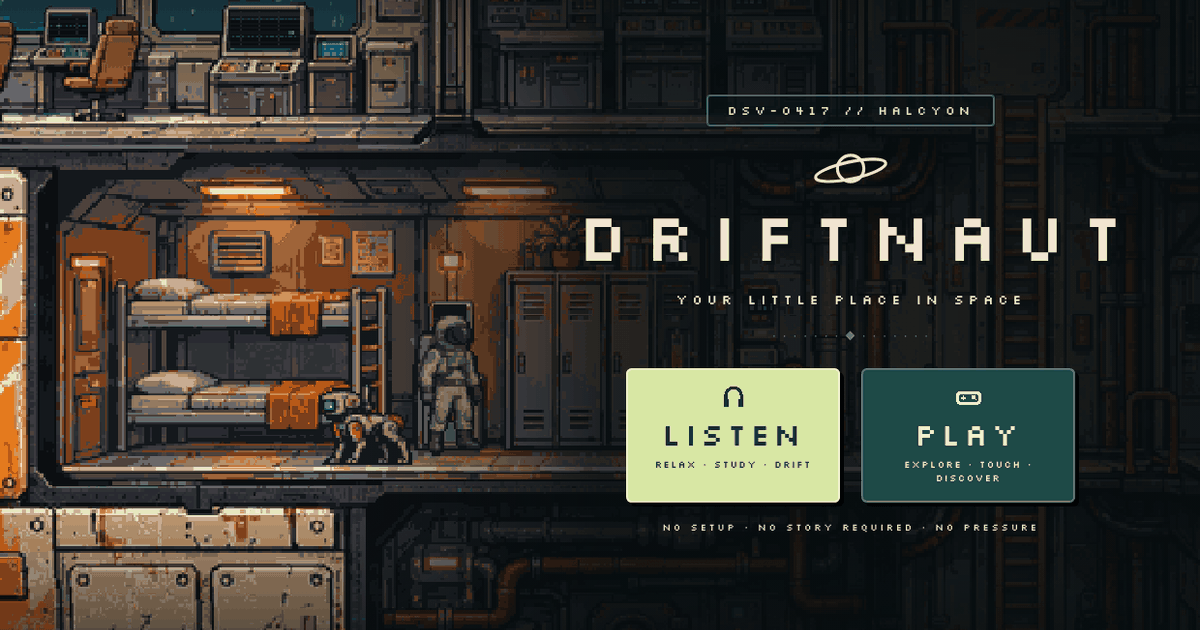
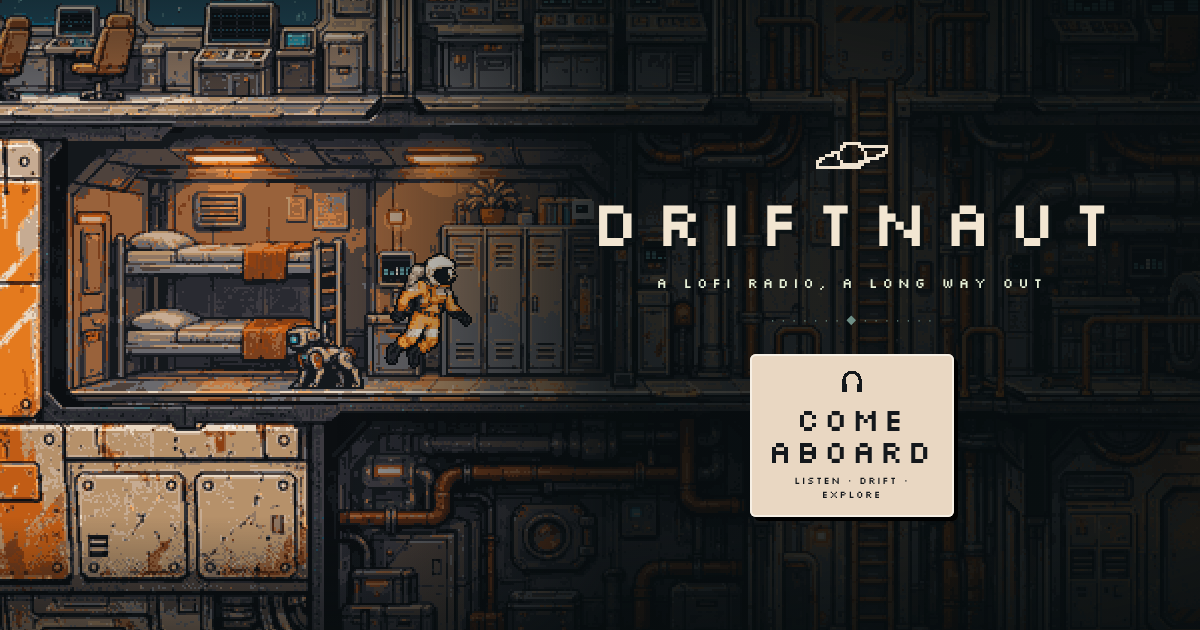
82 iphone

diff --git a/game.js b/game.js
@@ -91,6 +91,12 @@ const portrait=()=>!BC&&window.innerHeight>window.innerWidth*1.15;
 const isPhone=()=>!BC&&!!(window.matchMedia&&matchMedia('(pointer: coarse)').matches)&&Math.min(window.innerWidth,window.innerHeight)<=540; /* r55: a phone: touch, and a short side under ~540 px */
 function fit1(){const u=document.getElementById('unit');const cw0=stage.offsetWidth,ch0=stage.offsetHeight,cx=u.offsetWidth-cw0,cy=u.offsetHeight-ch0;
   const P_=portrait();document.body.classList.toggle('portrait',P_);const PH=isPhone();document.body.classList.toggle('phone',PH);
+  /* r82: UPRIGHT. Aboard on an upright phone or tablet the picture fills the whole screen: a tall slice of the ship, as tall as the hull,
+     that follows the astronaut. One picture pixel is two CSS pixels, the same chunk as the whole-ship view on a desktop */
+  const TALL=P_&&!BC&&document.body.classList.contains('watching')&&!document.body.classList.contains('studio')&&!recording;document.body.classList.toggle('tall',TALL);
+  if(TALL){const D=Math.max(1,Math.min(3,window.devicePixelRatio||1)),cw=window.innerWidth,chh=window.innerHeight,div=cw/2>470?3:2,iw=Math.round(cw/div),ih=Math.round(chh/div),m=Math.max(1,Math.round(div*D)),bw=iw*m,bh=ih*m;
+    if(bw!==stage.width||bh!==stage.height||CUT.pictureSize()[0]!==iw)LCV.setSize(bw,bh,iw,ih);stage.style.width=cw+'px';stage.style.height=chh+'px';stage.style.imageRendering='';document.body.classList.remove('lb-v','lb-h');return;}
+  if(CUT.pictureSize()[0]!==640){LCV.setSize(stage.width||1280,Math.round((stage.width||1280)*9/16));}
   const mg=BC||PH?0:P_?8:20;let k=Math.min((window.innerWidth-cx-mg)/640,(P_?window.innerHeight*.5:window.innerHeight-cy-mg)/360);k=Math.max(k,P_?.4:.6); /* an upright phone: as small as the width needs */
   /* r56: the canvas is drawn in device pixels, and each of the 640 x 360 picture pixels is a whole number of them when it can be */
   const D=BC?1:Math.max(1,Math.min(3,window.devicePixelRatio||1));let kd=k*D;const ki=Math.floor(kd+1e-6);if(ki>=1&&ki>=(BC?.97:.8)*kd)kd=ki;
@@ -424,7 +430,7 @@ function paintWatch(){/* full labels on a big screen; on a small one the words i
   {const sd=$('wSound');if(sd){const st=soundState();sd.innerHTML=st==='off'?'<s>SOUND<u> · </u></s>OFF':'<s>SOUND<u> · </u></s>'+(st==='ship'?'SHIP ONLY':'MUSIC + SHIP');sd.classList.toggle('off',st==='off');sd.setAttribute('aria-label','Sound: '+(st==='off'?'off':st==='ship'?'ship sounds only':'music and ship')+' (tap to change)');const nx=$('wNext');if(nx){nx.classList.toggle('off',st!=='all');nx.disabled=st!=='all';}}const fd=$('wFade');if(fd){fd.innerHTML='FADE OUT<em> · '+(SLP?SLP.min+' MIN':'OFF')+'</em>';fd.classList.toggle('on',!!SLP);}}{const t=$('wTape');if(t&&watch){const id=watch.tape||curTapeId();t.innerHTML='TAPE<em> · '+((NW.MUSIC[id]||{}).name||'')+'</em>';}const am=$('wAmb');if(am)am.innerHTML='AMBIENCE<em> · '+String(prefs.nw.ambience||'mid').toUpperCase()+'</em>';const wi=$('wInt');if(wi)wi.innerHTML='INTENSITY<em> · '+INTN[prefs.nw.intensity||'focus']+'</em>';for(const k of ['brown','pink']){const b=$('w'+k);if(b)b.innerHTML=k.toUpperCase()+' NOISE<em> · '+String(prefs.nw[k]||'low').toUpperCase()+'</em>';}}{const r=$('wRec');if(r){r.innerHTML=recording?'● REC<em> · STOP</em>':'REC<em> · LONG TAKE</em>';r.classList.toggle('on',!!recording);}}$('wFloat').innerHTML=document.pictureInPictureElement?'FLOAT<em> · ON</em>':'FLOAT';$('wFloat').classList.toggle('on',!!document.pictureInPictureElement);$('wFloat').hidden=!document.pictureInPictureEnabled;{const f=document.querySelector('[data-w=full]');if(f)f.hidden=!document.fullscreenEnabled;}} /* only what this browser can do */ /* r27: the seven per-sound sliders are gone; MUSIC on the quick bar turns the music off */
 function wake(keep){if(BC)return;/* the mouse moved: show the few controls, then hide them again */
   if(!watch)return;$('wui').hidden=false;$('wui').classList.add('on');document.body.classList.add('ui');clearTimeout(uiT);if(!keep&&!uiKeep)uiT=setTimeout(()=>{if(document.activeElement===$('wObj')){wake();return;}$('wui').classList.remove('on');document.body.classList.remove('ui');},4000);}
-document.addEventListener('pointermove',()=>{if(watch&&(state==='watch'||state==='play'))wake();});
+document.addEventListener('pointermove',()=>{if(watch&&(state==='watch'||state==='play'))wake();});document.addEventListener('pointerdown',()=>{if(watch&&state==='watch')wake();}); /* r82: a tap brings the bar back (a finger makes no pointermove) */
 $('wui').addEventListener('click',e=>{const b=e.target.closest('[data-w]');if(!b)return;const w=b.dataset.w;
   if(w==='next'){if(soundState()==='all')stationNext(3);wake();return;} /* r52 ⏭ */
   if(w==='focus25'){focusToggle();wake();return;}if(w==='float2'){floatWindow();wake();return;}if(w==='full'){fullToggle();wake();return;}if(w==='about'){aboutOpen(true);return;}
@@ -647,9 +653,12 @@ let DRV=0,drvT=0;function driftTick(){const pn=performance.now(),dt=Math.min(1,(
    LISTEN on an upright phone pans slowly along the whole ship, bow to stern and back, about two minutes a pass */
 let CAMV=null,camT=0;const CAM={wide:false,tip:false};window.__cam=CAM;
 const vw=t=>CAMV||CUT.view(P,TIMES,t);
-function camTarget(t){if(!document.body.classList.contains('phone')||!watch||BC||recording)return null;const W=CUT.W,H=CUT.H,por=document.body.classList.contains('portrait'),asp=stage.height/stage.width||9/16;
+function camTarget(t){if(!(document.body.classList.contains('phone')||document.body.classList.contains('tall'))||!watch||BC||recording)return null;const W=CUT.W,H=CUT.H,por=document.body.classList.contains('portrait'),asp=stage.height/stage.width||9/16;
   if(state==='play'&&!CAM.wide){let s=null;try{s=window.__eva||CUT.actorAt(P,TIMES,t,me);}catch(e){}if(!s)return null;const w=W/(por?2.3:1.8),h=w*asp;
     return [Math.max(0,Math.min(W-w,s.x-w/2)),Math.max(0,Math.min(H-h,s.y-40-h/2)),w,h];}
+  if(state==='watch'&&document.body.classList.contains('tall')){const gh=window.__ghost,a=stage.height/stage.width||16/9;
+    if(CAM.wide){const w=W,h=w*a;return [0,H/2-h/2,w,h];} /* pinched out: the whole ship, with sky above and below */
+    const h=Math.min(H,1230),w=h/a,gx=gh&&gh.on?gh.x:820,gy=gh&&gh.on?gh.y:700;return [Math.max(0,Math.min(W-w,gx-w/2)),Math.max(0,Math.min(H-h,gy-40-h/2)),w,h];}
   if(state==='watch'&&por){const w=W/1.7,h=w*asp,gh=window.__ghost; /* r63: an upright phone follows the ghost (she wanders by herself, so the camera does too) */
     if(gh&&gh.on)return [Math.max(0,Math.min(W-w,gh.x-w/2)),Math.max(0,Math.min(H-h,gh.y-40-h/2)),w,h];const u=.5-.5*Math.cos(performance.now()/1000*2*Math.PI/240);return [(W-w)*u,Math.max(0,Math.min(H-h,H*.5-h/2)),w,h];}
   return null;}
@@ -671,7 +680,7 @@ let hidT=0;document.addEventListener('visibilitychange',()=>{clearInterval(hidT)
 function frame(viaTimer){if(viaTimer!==true)requestAnimationFrame(frame);if(document.hidden&&!(viaTimer===true&&inPip()))return; /* r61 */
   driftTick();if(DT&&state!=='play'&&state!=='opening'&&state!=='route'&&state!=='deck')driftTone(0,0);pollPad();tickExterior();if(state==='opening')openingTick(now());const t=state==='title'||state==='registry'||(state==='controls'||state==='options')&&menuFrom==='title'||state==='setup'?(TIMES[1]?TIMES[1].start:0)+5+((performance.now()/1000-idle0)%24):now();
   if(state==='title'||state==='registry'||state==='setup'||(state==='controls'||state==='options')&&menuFrom==='title'){CUT.force('drift');LCV.render(t,{});CUT.force(null);if(DEV&&showMap)drawMap(t);return;}
-  camTick(t);if(CAMV)CUT.force(CAMV);LCV.render(t,{});if(CAMV)CUT.force(null);if(DEV&&showMap)drawMap(t);
+  camTick(t);if(CAMV)CUT.force(CAMV);LCV.render(t,document.body.classList.contains('tall')&&CAMV?{view:CAMV}:{});if(CAMV)CUT.force(null);if(DEV&&showMap)drawMap(t);
   if(story&&!watch&&(state==='play'||state==='opening'||state==='route'||state==='deck')){sfxTick(t);story.update();if(k9&&state==='play'){k9.update(t);if(events&&!resting)events.update(t);idleGlance(t);const r=CUT.roomAt(P,TIMES,t,me);if(r!==lastRoom){lastRoom=r;lastProgress=t;}}if(!(hudN%6))paintNotes();if(SCAN.found&&state==='play'){const p=CUT.actorAt(P,TIMES,t,me),k=Math.max(2,Math.round(stage.width/384)),R=SCAN.read(p.x,p.y);if(SCAN.tick(t,R)==='lock'){tuneReq=true;ping();}scanSound(R);if(scanVisible(t,R)){const c2=stage.getContext('2d');c2.save();c2.globalAlpha=scanA;SCAN.draw(c2,t,R,k,1);c2.restore();}}else scanSound(null);}else{tuneReq=false;scanSound(null);}
   if(recording&&(state==='play'||state==='watch')){layersOnto();recording.frame(Math.max(0,t-recording.t0));}
   else if(document.pictureInPictureElement&&watch)layersOnto();

diff --git a/index.html b/index.html
@@ -8,7 +8,7 @@
 <meta name="theme-color" content="#06060a">
 <meta property="og:title" content="Driftnaut">
 <meta property="og:description" content="A drifting research vessel, an astronaut and a robodog called Scout. Endless chillhop. DSV HALCYON · 0417 · Drift through space. Tune out the world.">
-<meta property="og:image" content="og.png">
+<meta property="og:image" content="og.png?v=2">
 <meta property="og:image:width" content="1200"><meta property="og:image:height" content="630"><meta name="twitter:card" content="summary_large_image">
 <link rel="icon" href="favicon.png" type="image/png">
 <link rel="apple-touch-icon" href="apple-touch-icon.png">
@@ -16,7 +16,7 @@
 <meta name="mobile-web-app-capable" content="yes"><meta name="apple-mobile-web-app-capable" content="yes">
 <link rel="preload" href="fonts/silkscreen-400.woff2" as="font" type="font/woff2" crossorigin>
 <link rel="preload" href="fonts/plexmono-400.woff2" as="font" type="font/woff2" crossorigin>
-<link rel="stylesheet" href="game.css?v=55">
+<link rel="stylesheet" href="game.css?v=57">
 </head>
 <body>
 <div class="boot" id="boot" role="status" aria-live="polite"><div class="bt-box"><canvas class="bt-sky" id="bootSky" width="320" height="200" aria-hidden="true"></canvas><p class="bt-top"><span>DSV-0417</span><span>HOS 4.1</span></p><div class="bt-art"><img id="bootArt" src="boot-helmet.png?v=2" alt="" width="64" height="64"><p class="bt-kick">DSV-0417 // HALCYON</p><svg class="bt-orb" viewBox="0 0 26 13" aria-hidden="true" shape-rendering="crispEdges" fill="currentColor"><rect x="10" y="2" width="1" height="1"/><rect x="11" y="2" width="1" height="1"/><rect x="12" y="2" width="1" height="1"/><rect x="13" y="2" width="1" height="1"/><rect x="14" y="2" width="1" height="1"/><rect x="15" y="2" width="1" height="1"/><rect x="9" y="3" width="1" height="1"/><rect x="10" y="3" width="1" height="1"/><rect x="15" y="3" width="1" height="1"/><rect x="16" y="3" width="1" height="1"/><rect x="17" y="3" width="1" height="1"/><rect x="18" y="3" width="1" height="1"/><rect x="19" y="3" width="1" height="1"/><rect x="20" y="3" width="1" height="1"/><rect x="21" y="3" width="1" height="1"/><rect x="22" y="3" width="1" height="1"/><rect x="23" y="3" width="1" height="1"/><rect x="24" y="3" width="1" height="1"/><rect x="9" y="4" width="1" height="1"/><rect x="16" y="4" width="1" height="1"/><rect x="24" y="4" width="1" height="1"/><rect x="6" y="5" width="1" height="1"/><rect x="7" y="5" width="1" height="1"/><rect x="8" y="5" width="1" height="1"/><rect x="17" y="5" width="1" height="1"/><rect x="23" y="5" width="1" height="1"/><rect x="24" y="5" width="1" height="1"/><rect x="4" y="6" width="1" height="1"/><rect x="5" y="6" width="1" height="1"/><rect x="6" y="6" width="1" height="1"/><rect x="8" y="6" width="1" height="1"/><rect x="17" y="6" width="1" height="1"/><rect x="21" y="6" width="1" height="1"/><rect x="22" y="6" width="1" height="1"/><rect x="23" y="6" width="1" height="1"/><rect x="2" y="7" width="1" height="1"/><rect x="3" y="7" width="1" height="1"/><rect x="8" y="7" width="1" height="1"/><rect x="17" y="7" width="1" height="1"/><rect x="18" y="7" width="1" height="1"/><rect x="19" y="7" width="1" height="1"/><rect x="20" y="7" width="1" height="1"/><rect x="21" y="7" width="1" height="1"/><rect x="1" y="8" width="1" height="1"/><rect x="2" y="8" width="1" height="1"/><rect x="9" y="8" width="1" height="1"/><rect x="15" y="8" width="1" height="1"/><rect x="16" y="8" width="1" height="1"/><rect x="17" y="8" width="1" height="1"/><rect x="18" y="8" width="1" height="1"/><rect x="1" y="9" width="1" height="1"/><rect x="9" y="9" width="1" height="1"/><rect x="10" y="9" width="1" height="1"/><rect x="11" y="9" width="1" height="1"/><rect x="12" y="9" width="1" height="1"/><rect x="13" y="9" width="1" height="1"/><rect x="14" y="9" width="1" height="1"/><rect x="15" y="9" width="1" height="1"/><rect x="16" y="9" width="1" height="1"/><rect x="1" y="10" width="1" height="1"/><rect x="2" y="10" width="1" height="1"/><rect x="3" y="10" width="1" height="1"/><rect x="4" y="10" width="1" height="1"/><rect x="5" y="10" width="1" height="1"/><rect x="6" y="10" width="1" height="1"/><rect x="7" y="10" width="1" height="1"/><rect x="8" y="10" width="1" height="1"/><rect x="9" y="10" width="1" height="1"/><rect x="10" y="10" width="1" height="1"/><rect x="11" y="10" width="1" height="1"/><rect x="12" y="10" width="1" height="1"/><rect x="13" y="10" width="1" height="1"/><rect x="14" y="10" width="1" height="1"/><rect x="15" y="10" width="1" height="1"/></svg><p class="bt-name">DRIFTNAUT</p><p class="bt-tag">A LOFI RADIO, A LONG WAY OUT</p><p class="bt-rule" aria-hidden="true">· · · · · · · ◆ · · · · · · ·</p><div class="bt-ship" role="img" aria-label="The survey vessel HALCYON, DSV-0417"></div></div><canvas class="bt-live" id="bootLive" aria-hidden="true"></canvas><div class="bt-mid"><p class="bt-load" id="bootLoad" hidden>LOADING<span class="bt-dots"></span></p><div class="bt-bar" id="bootFill" hidden><b></b><b></b><b></b><b></b><b></b><b></b><b></b><b></b><b></b><b></b><b></b><b></b><b></b><b></b><b></b><b></b></div><p class="bt-sub" id="bootSub" hidden>RECOVERING FEED</p><div class="bt-pick" id="bootStart"><button type="button" class="bt-card listen" data-b="listen"><svg viewBox="0 0 16 16" aria-hidden="true"><path d="M3 9V7a5 5 0 0 1 10 0v2" fill="none" stroke="currentColor" stroke-width="2"/><rect x="2" y="9" width="3" height="5" fill="currentColor"/><rect x="11" y="9" width="3" height="5" fill="currentColor"/></svg><b>COME ABOARD</b><span>LISTEN · DRIFT · EXPLORE</span></button></div></div><p class="bt-foot" id="bootFoot"><span>NO GOALS · NO SCORES · NOTHING YOU HAVE TO DO</span></p></div></div>
@@ -190,13 +190,13 @@
 <script src="deep.js?v=16"></script>
 <script src="assets-core.js?v=27"></script>
 <script src="pix.js?v=11"></script>
-<script src="cut.js?v=66"></script>
+<script src="cut.js?v=67"></script>
 <script src="episode.js?v=3"></script>
 <script src="story/halcyon.js?v=13"></script>
 <script src="watch.js?v=20"></script>
 <script src="amb.js?v=6"></script>
 <script src="audio/sfx.js?v=6"></script>
-<script src="lc.js?v=14"></script>
+<script src="lc.js?v=15"></script>
 <script src="rec.js?v=9"></script>
 <script src="game/scanner.js?v=5"></script>
 <script src="game/power.js?v=4"></script>
@@ -205,16 +205,16 @@
 <script src="game/events.js?v=3"></script>
 <script src="game/story.js?v=17"></script>
 <script src="game/console.js?v=2"></script>
-<script src="game.js?v=77"></script>
+<script src="game.js?v=78"></script>
 <script src="game/pad.js?v=14"></script>
 <script src="game/toys.js?v=23"></script>
 <script src="game/clock.js?v=8"></script>
 <script src="game/k9nav.js?v=1"></script>
 <script src="game/joy.js?v=7"></script>
 <script src="game/town.js?v=9"></script>
-<script src="game/naut.js?v=12"></script>
-<script src="game/life.js?v=2"></script>
-<script src="game/feel.js?v=1"></script>
+<script src="game/naut.js?v=13"></script>
+<script src="game/life.js?v=3"></script>
+<script src="game/feel.js?v=2"></script>
 <script>if(/[?&]studio\b/.test(location.search))document.body.classList.add('studio');</script>
 <script>/* the boot screen (r27): the rest of the ship (the cutaway master and its overlays, then the crew) is fetched with its
    progress shown as an arcade loading bar, sixteen blocks, then the title. Falls back to plain script tags if fetch fails. */

diff --git a/cut.js b/cut.js
@@ -631,7 +631,7 @@ function render(c,P,times,t,box,scale){layers();const C=compile(P,times);if(!rea
   const V=FORCE==='drift'?extRect(performance.now()/1000):FORCE||(PLAY.on||C.cams.length>1?view(P,times,t):[0,0,W,H]);
   c.save();c.setTransform(1,0,0,1,0,0);c.imageSmoothingEnabled=false;
   if(LOWRES){let [sx,sy,sw,sh]=V;if(Math.abs(sw-IR.w*2)<1){sx=Math.round(sx/2)*2;sy=Math.round(sy/2)*2;} /* snapped: no pixel crawl while she walks */
-    ix.imageSmoothingEnabled=false;if(TIGHT){ix.fillStyle='#0b0e11';ix.fillRect(0,0,IR.w,IR.h);}ix.drawImage(cv,sx,sy,sw,sh,0,0,IR.w,IR.h);if(PALON){const id=ix.getImageData(0,0,IR.w,IR.h);quantize(id.data);ix.putImageData(id,0,0);}
+    ix.imageSmoothingEnabled=false;if(TIGHT||sx<0||sy<0||sx+sw>W+.5||sy+sh>H+.5){ix.fillStyle='#161719';ix.fillRect(0,0,IR.w,IR.h);} /* r82: a view that runs past the art (the whole ship on a tall screen) has plain sky around it */ix.drawImage(cv,sx,sy,sw,sh,0,0,IR.w,IR.h);if(PALON){const id=ix.getImageData(0,0,IR.w,IR.h);quantize(id.data);ix.putImageData(id,0,0);}
     c.drawImage(ic,0,0,IR.w,IR.h,Math.round(box.x*scale),Math.round(box.y*scale),Math.round(box.w*scale),Math.round(box.h*scale));}
   else c.drawImage(cv,V[0],V[1],V[2],V[3],Math.round(box.x*scale),Math.round(box.y*scale),Math.round(box.w*scale),Math.round(box.h*scale));c.restore();
   return {x:box.x,y:box.y,w:box.w,h:box.h};}
@@ -639,7 +639,7 @@ function report(P,times,t){const C=compile(P,times),o={};for(const a of ACTORS){
 let DRIFTV=0;
 let LASTEXT=0,SOLID=false;
 window.CUT={solid:v=>{SOLID=!!v;},extAt:()=>LASTEXT, /* r41: how much of the last frame drawn was the outside of the hull (the opening's x-ray, the viewport look); the overlay layers fade with it */ /* r41: how much of the picture is the outside of the hull (the overlay layers fade with it) */
-  float:v=>{DRIFTV=Math.max(0,Math.min(1,+v||0));},toy:o=>{o=Object.assign({},o||{});if(o.room){for(const [r,v] of Object.entries(o.room)){if((TOY.room[r]==null?1:TOY.room[r])!==v)RLT[r]=performance.now();TOY.room[r]=v;}delete o.room;}if(o.door){Object.assign(TOY.door,o.door);delete o.door;}Object.assign(TOY,o);return TOY;},_sky:()=>skyMask(),_hash:(a,b)=>hash(a,b),tight:v=>{TIGHT=!!v;},focus:f=>{FOCUS=f||null;},frame:()=>LOWRES&&ic?ic:null,_loc:{mkRun,evalRun,xyOf:p=>xyOf(p)},setTape:n=>{TAPE=n;},drift:v=>{DRIFTL=v;},roomOf,gait:(P,times,t,a)=>{const C=compile(P,times),st=actorAt(C,a||'deadscout',t);if(!st.walk||st.dist==null)return null;const S=A.sheets[SHEET[a]||a];if(!S||!S.animations.walk)return null;const an=S.animations.walk,tot=an.reduce((p,f)=>p+f[1],0),stride=Math.max(1,vWalk(a,st.sneak,false)*tot);let u=((st.dist/stride)%1+1)%1*tot,i=0;for(const [f,d] of an){if(u<d)break;u-=d;i++;}return {i:Math.min(i,an.length-1),n:an.length,fast:st.fast,v:st.v};},render,compile,parse,format,formatBeat,eventAt,report,view,pick,neighbor,wakeAt,hereRef,farTarget,roomAt,nearby,snapshot,travelTime,MAP:SC,SS,uses:(P,times)=>compile(P,times).uses,doorStates:(P,times,t)=>{const C=compile(P,times),o={};for(const d of DOORS)o[d]=lastOf(C.doors[d],t).state;return o;},roomStates:(P,times,t)=>{const C=compile(P,times),o={};for(const r of Object.keys(SC.rooms))o[r]=roomState(C,r,t);return o;},screenModeAt:(P,times,t,id)=>screenAt(compile(P,times),id,t).m,objCount:(P,times,id)=>compile(P,times).obj[id]||0,force:v=>{FORCE=v;},overlay:f=>{OVERLAY=f;},behind:f=>{BEHIND=f;},hideHer:v=>{HIDEHER=!!v;},/* r79: a piece of the foreground art (railings, door frames) or of the outside hull, redrawn by a caller over something it drew on top (world units) */layer:(which,ctx,sx,sy,sw,sh,alpha)=>{const im=which==='front'?L2:which==='exterior'?LX:null;if(!im||!ready(im))return false;const kx=im.naturalWidth/W,ky=im.naturalHeight/H;ctx.save();ctx.globalAlpha=alpha==null?1:alpha;ctx.drawImage(im,sx*kx,sy*ky,sw*kx,sh*ky,sx,sy,sw,sh);ctx.restore();return true;},sprite:(id,anim,X,Y,flip,t,ctx,alpha,an0)=>{HERSELF=true;try{return drawSprite(id,anim,X,Y,flip,t,0,alpha==null?1:alpha,an0||null,ctx);}finally{HERSELF=false;}},exterior:v=>{EXTF=v;},light:v=>{LIT=!!v;},lowres:v=>{LOWRES=!!v;},palette:v=>{PALON=!!v;},PALETTE,IR,hasExterior:()=>!!LX,actorAt:(P,times,t,a)=>actorAt(compile(P,times),a||'deadscout',t),command,play:PLAY,mmss,secs,
+  float:v=>{DRIFTV=Math.max(0,Math.min(1,+v||0));},toy:o=>{o=Object.assign({},o||{});if(o.room){for(const [r,v] of Object.entries(o.room)){if((TOY.room[r]==null?1:TOY.room[r])!==v)RLT[r]=performance.now();TOY.room[r]=v;}delete o.room;}if(o.door){Object.assign(TOY.door,o.door);delete o.door;}Object.assign(TOY,o);return TOY;},_sky:()=>skyMask(),_hash:(a,b)=>hash(a,b),tight:v=>{TIGHT=!!v;},focus:f=>{FOCUS=f||null;},frame:()=>LOWRES&&ic?ic:null,_loc:{mkRun,evalRun,xyOf:p=>xyOf(p)},setTape:n=>{TAPE=n;},drift:v=>{DRIFTL=v;},roomOf,gait:(P,times,t,a)=>{const C=compile(P,times),st=actorAt(C,a||'deadscout',t);if(!st.walk||st.dist==null)return null;const S=A.sheets[SHEET[a]||a];if(!S||!S.animations.walk)return null;const an=S.animations.walk,tot=an.reduce((p,f)=>p+f[1],0),stride=Math.max(1,vWalk(a,st.sneak,false)*tot);let u=((st.dist/stride)%1+1)%1*tot,i=0;for(const [f,d] of an){if(u<d)break;u-=d;i++;}return {i:Math.min(i,an.length-1),n:an.length,fast:st.fast,v:st.v};},render,compile,parse,format,formatBeat,eventAt,report,view,pick,neighbor,wakeAt,hereRef,farTarget,roomAt,nearby,snapshot,travelTime,MAP:SC,SS,uses:(P,times)=>compile(P,times).uses,doorStates:(P,times,t)=>{const C=compile(P,times),o={};for(const d of DOORS)o[d]=lastOf(C.doors[d],t).state;return o;},roomStates:(P,times,t)=>{const C=compile(P,times),o={};for(const r of Object.keys(SC.rooms))o[r]=roomState(C,r,t);return o;},screenModeAt:(P,times,t,id)=>screenAt(compile(P,times),id,t).m,objCount:(P,times,id)=>compile(P,times).obj[id]||0,force:v=>{FORCE=v;},overlay:f=>{OVERLAY=f;},behind:f=>{BEHIND=f;},hideHer:v=>{HIDEHER=!!v;},/* r82: the logical picture can be another size and shape (an upright phone: tall) */picture:(w,h)=>{w=Math.max(64,Math.round(w));h=Math.max(64,Math.round(h));if(IR.w===w&&IR.h===h)return;IR.w=w;IR.h=h;ic.width=w;ic.height=h;},pictureSize:()=>[IR.w,IR.h],/* r79: a piece of the foreground art (railings, door frames) or of the outside hull, redrawn by a caller over something it drew on top (world units) */layer:(which,ctx,sx,sy,sw,sh,alpha)=>{const im=which==='front'?L2:which==='exterior'?LX:null;if(!im||!ready(im))return false;const kx=im.naturalWidth/W,ky=im.naturalHeight/H;ctx.save();ctx.globalAlpha=alpha==null?1:alpha;ctx.drawImage(im,sx*kx,sy*ky,sw*kx,sh*ky,sx,sy,sw,sh);ctx.restore();return true;},sprite:(id,anim,X,Y,flip,t,ctx,alpha,an0)=>{HERSELF=true;try{return drawSprite(id,anim,X,Y,flip,t,0,alpha==null?1:alpha,an0||null,ctx);}finally{HERSELF=false;}},exterior:v=>{EXTF=v;},light:v=>{LIT=!!v;},lowres:v=>{LOWRES=!!v;},palette:v=>{PALON=!!v;},PALETTE,IR,hasExterior:()=>!!LX,actorAt:(P,times,t,a)=>actorAt(compile(P,times),a||'deadscout',t),command,play:PLAY,mmss,secs,
   ROOMS:Object.fromEntries(Object.keys(SPOTS).map(r=>[r,{name:ROOM_NAMES[r]||r.toUpperCase(),spots:SPOTS[r]}])),ACTORS,NAMES,STORY_MODES,MODE_OF,STATES,WORLD,SCREEN_MODES,EVENTS,DOORS,ANOM,MYSTERIES:MYST,OBJECTS:OBJ,ECHO_PRESETS,ACTIONS,
   SCREENS:Object.keys(SC.screens),place,poses:AN,W,H};
 })();

diff --git a/lc.js b/lc.js
@@ -4,7 +4,7 @@
    are 1920x1080; the canvas can be any size. */
 (function(){
 "use strict";
-const DW=1920,DH=1080,INTRO=2.6,OUTRO=5,HAL=7,HAL_X=4.2; /* r26: the open ends on CURRENT STATUS · LOST *//* HAL: the HALCYON open, over the hull outside, with the music already running; then HAL_X seconds dissolving in */
+let DW=1920,DH=1080;const INTRO=2.6,OUTRO=5,HAL=7,HAL_X=4.2; /* r26: the open ends on CURRENT STATUS · LOST *//* HAL: the HALCYON open, over the hull outside, with the music already running; then HAL_X seconds dissolving in */
 const clamp=(v,a,b)=>Math.max(a,Math.min(b,v)),sm=x=>{x=clamp(x,0,1);return x*x*(3-2*x);};
 const hash=(a,b)=>{let h=Math.imul((a|0)^0x9e3779b9,0x85ebca6b)^Math.imul((b|0)+0x7f4a7c15|0,0xc2b2ae35);h^=h>>>15;h=Math.imul(h,0x2c1b3c6d);h^=h>>>12;return (h>>>0)/4294967296;};
 const vn=(x,s)=>{const i=Math.floor(x),f=x-i,u=f*f*(3-2*f);return hash(i,s)*(1-u)+hash(i+1,s)*u;};
@@ -16,7 +16,7 @@ const EVENTS={'signal-hit':'SIGNAL HIT','contact-pulse':'CONTACT PULSE','power-d
 function create(canvas){
   const ctx=canvas.getContext('2d');let P=null,times=[],scale=1;
   const tmp=document.createElement('canvas'),tx=tmp.getContext('2d'),tmp2=document.createElement('canvas'),tx2=tmp2.getContext('2d');
-  function setSize(w,h){canvas.width=w;canvas.height=h;scale=w/DW;}
+  function setSize(w,h,irw,irh){canvas.width=w;canvas.height=h;const tall=h>w*1.15; /* r82: an upright picture is laid out 1080 wide and as tall as it is */DW=tall?1080:1920;DH=tall?Math.round(1080*h/w):1080;scale=w/DW;try{if(irw&&irh)CUT.picture(irw,irh);else CUT.picture(640,360);}catch(e){}}
   function setProject(p,t){P=p;times=t||[];}
   const chapterAt=t=>{for(let k=times.length-1;k>=0;k--)if(t>=times[k].start)return k;return 0;};
   function cfgOf(ch,sd){const role=String(ch.role||ch.title||'').toUpperCase(),mk=ch.motion&&ch.motion!=='auto'?ch.motion:(ROLE_SET[role]||P.motion||'synthwave'),S=SETS[mk]||SETS.synthwave,e=FX_ENERGY[ch.fxEnergy||P.fxEnergy||'mid']||1;
@@ -24,8 +24,8 @@ function create(canvas){
   const HAL_BLOCKS=[['2291 // DSV HALCYON',0,2.4],['DRIFTING PEACEFULLY','150 AU FROM SOL',2.4,7]];
   function halcyonOpen(c,t){c.save();c.setTransform(scale,0,0,scale,0,0);c.fillStyle='rgba(2,3,8,.38)';c.fillRect(0,0,DW,DH);c.globalAlpha=sm(t/.8);
     for(const b of HAL_BLOCKS){const two=b.length===4,t0=b[two?2:1],t1=b[two?3:2];if(t<t0||t>=t1)continue;const u=t-t0,a=Math.min(sm(u/.45),1-sm((u-(t1-t0-.5))/.5));c.globalAlpha=sm(t/.8)*a;c.textAlign='left';
-      c.font='400 30px Silk,"LR Clean",monospace';try{c.letterSpacing='9px';}catch(e){}c.fillStyle='#8fd8c0';c.fillText(b[0],150,DH-250);
-      if(two){c.font='400 64px Silk,"LR Clean",monospace';try{c.letterSpacing='12px';}catch(e){}c.fillStyle=b[1]==='INTERNAL'||b[1]==='LOST'?'#e8a33a':'#e7dbc0';c.fillText(b[1],150,DH-160);}}
+      c.font='400 30px Silk,"LR Clean",monospace';try{c.letterSpacing='9px';}catch(e){}const TALL=DH>DW,X0=TALL?70:150,Y0=TALL?DH-470:DH-250,K=TALL?.8:1;if(TALL){const ga=c.globalAlpha;c.globalAlpha=ga*.72;c.fillStyle='#0b0e11';c.fillRect(0,Y0-70,DW,two?200:110);c.globalAlpha=ga;} /* upright: the words lie over the hull, so they get a dark band of their own */c.font='400 '+Math.round(30*K)+'px Silk,"LR Clean",monospace';c.fillStyle='#8fd8c0';c.fillText(b[0],X0,Y0);
+      if(two){c.font='400 64px Silk,"LR Clean",monospace';try{c.letterSpacing='12px';}catch(e){}c.font='400 '+Math.round(64*K)+'px Silk,"LR Clean",monospace';c.fillStyle=b[1]==='INTERNAL'||b[1]==='LOST'?'#e8a33a':'#e7dbc0';c.fillText(b[1],X0,Y0+90*K);}}
     try{c.letterSpacing='0px';}catch(e){}c.restore();}
   function card(c,line,alpha){c.save();c.setTransform(scale,0,0,scale,0,0);c.globalAlpha=alpha;c.fillStyle='#0c0a09';c.fillRect(0,0,DW,DH);c.fillStyle='#e7dbc0';c.textAlign='center';c.font='400 58px Silk,monospace';try{c.letterSpacing='8px';}catch(e){}c.fillText('DRIFTNAUT',DW/2+4,DH/2+8);
     c.font='400 20px Silk,monospace';try{c.letterSpacing='5px';}catch(e){}c.globalAlpha=alpha*.7;c.fillText(line,DW/2+3,DH/2+56);try{c.letterSpacing='0px';}catch(e){}c.restore();}
@@ -84,10 +84,10 @@ function create(canvas){
     const B=P.brand||{},total=times.length?times[times.length-1].end:0,hal=B.intro==='halcyon'&&CUT.hasExterior&&CUT.hasExterior();
     if(B.intro&&!hal&&t<INTRO){ctx.setTransform(1,0,0,1,0,0);ctx.fillStyle='#000';ctx.fillRect(0,0,canvas.width,canvas.height);card(ctx,B.line||'RECOVERED TRANSMISSION · DSV HALCYON',sm(t/.6));return;}
     ctx.setTransform(1,0,0,1,0,0);
-    if(hal&&t<HAL+HAL_X+3){const u=t<HAL+HAL_X?0:sm((t-HAL-HAL_X)/3),Vs=CUT.view(P,times,t);CUT.force([0,0,CUT.W,CUT.H].map((v,i)=>v+(Vs[i]-v)*u));CUT.exterior(t<HAL?1:clamp(1-(t-HAL)/HAL_X,0,1));drawCut(ctx,t,opts);CUT.force(null);CUT.exterior(null);if(t<HAL)halcyonOpen(ctx,t);} /* the open holds the whole ship, then the script's camera takes over */
+    if(hal&&t<HAL+HAL_X+3){const u=t<HAL+HAL_X?0:sm((t-HAL-HAL_X)/3),Vs=opts.view||CUT.view(P,times,t);CUT.force((opts.view||[0,0,CUT.W,CUT.H]).map((v,i)=>v+(Vs[i]-v)*u)); /* r82: a caller's own camera (the upright phone) holds through the open */CUT.exterior(t<HAL?1:clamp(1-(t-HAL)/HAL_X,0,1));drawCut(ctx,t,opts);CUT.force(null);CUT.exterior(null);if(t<HAL)halcyonOpen(ctx,t);} /* the open holds the whole ship, then the script's camera takes over */
     else drawCut(ctx,t,opts);
     const os=B.outro===true?'card':B.outro;if(os==='card'&&total&&t>total-OUTRO)card(ctx,'END OF TRANSMISSION'+(P.code?' · '+P.code:''),sm((t-(total-OUTRO))/1.4));
     else if(os==='fade'&&total&&t>total-3){ctx.setTransform(1,0,0,1,0,0);ctx.fillStyle=`rgba(0,0,0,${sm((t-(total-3))/2.6)})`;ctx.fillRect(0,0,canvas.width,canvas.height);}}
   return {setSize,setProject,render,chapterAt,get scale(){return scale;}};}
-window.LC={create,EVENTS,INTRO,OUTRO,HAL,HAL_X,DW,DH};
+window.LC={create,EVENTS,INTRO,OUTRO,HAL,HAL_X,get DW(){return DW;},get DH(){return DH;}};
 })();

diff --git a/game/naut.js b/game/naut.js
@@ -15,7 +15,7 @@ const stage=document.getElementById('stage'),rnd=(a,b)=>a+Math.random()*(b-a),cl
 const M=CUT.MAP,NODES=M.nodes,HULL=[110,250,2080,1200],HOV=6;
 const QN=(location.search.match(/[?&]night=(\d)/)||[])[1];
 const G={x:736,y:846-HOV,vx:0,vy:0,path:[],face:1,last:0,wanderAt:0,slow:false,ext:0,on:false,t0:0,space:false,act:null,mug:0,k9At:0,night:null,asleep:false,acts:0,roll:0};
-window.__naut=window.__ghost=G;try{CUT.hideHer(true);}catch(e){}G.isNight=()=>{if(G.forceNight!=null)return !!G.forceNight;return QN==='1';}; /* r74: the visitor's clock no longer changes anything; a nap is one of the routines */
+window.__naut=window.__ghost=G;/* r82: a visitor who has asked their device for less motion gets a calmer ship: no roll, no gas puffs, no shooting stars, still dust */G.calm=/[?&]calm=1/.test(location.search)||!!(window.matchMedia&&matchMedia('(prefers-reduced-motion: reduce)').matches);try{CUT.hideHer(true);}catch(e){}G.isNight=()=>{if(G.forceNight!=null)return !!G.forceNight;return QN==='1';}; /* r74: the visitor's clock no longer changes anything; a nap is one of the routines */
 /* strictly inside a room's outline, or nowhere (the engine's own roomOf answers with the nearest room even from open space) */
 const roomAt=(x,y)=>{for(const r in M.rooms){const P=M.rooms[r].poly;let in_=false;for(let i=0,j=P.length-1;i<P.length;j=i++){const [xi,yi]=P[i],[xj,yj]=P[j];if((yi>y)!==(yj>y)&&x<(xj-xi)*(y-yi)/(yj-yi)+xi)in_=!in_;}if(in_)return r;}return null;};
 /* the ship's ways: the same nodes the crew walk, and the two ladders */
@@ -97,7 +97,7 @@ function tick(dt,pn){const g=GP();if(!active()){if(G.on){G.on=false;try{CUT.exte
   else{const f=Math.pow(.05,dt);G.vx*=f;G.vy*=f;}
   /* r72: outside, the pack answers every change of speed or heading with a small puff of cold gas, pushed the opposite way. Coasting needs none.
      (A real suit's jet pack is cold nitrogen: no flame, no glow, a faint white puff.) Indoors there are no jets: you push off the walls */
-  if(G.space&&dt>0){const ax=(G.vx-(G.pvx||0))/dt,ay=(G.vy-(G.pvy||0))/dt,am=Math.hypot(ax,ay);if(am>26&&pn-(G.puffAt||0)>110){G.puffAt=pn;const px=G.x-ax/am*30,py=G.y-58-ay/am*40;
+  if(G.space&&dt>0&&!G.calm){const ax=(G.vx-(G.pvx||0))/dt,ay=(G.vy-(G.pvy||0))/dt,am=Math.hypot(ax,ay);if(am>26&&pn-(G.puffAt||0)>110){G.puffAt=pn;const px=G.x-ax/am*30,py=G.y-58-ay/am*40;
       for(let i=0;i<3;i++)PUFF.push({x:px+rnd(-3,3),y:py+rnd(-4,4),vx:-ax/am*rnd(60,110)+rnd(-14,14)+G.vx*.3,vy:-ay/am*rnd(60,110)+rnd(-14,14)+G.vy*.3,t:pn,life:rnd(650,1100)});if(PUFF.length>48)PUFF.splice(0,PUFF.length-48);}}
   G.pvx=G.vx;G.pvy=G.vy;
   G.x=clamp(G.x+G.vx*dt,40,CUT.W-40);G.y=clamp(G.y+G.vy*dt,90,CUT.H-20);if(Math.abs(G.vx)>6)G.face=G.vx>0?1:-1;
@@ -195,7 +195,7 @@ CUT.overlay((x,t,SS)=>{const u=SS||2,pn=performance.now(),sp=Math.hypot(G.vx,G.v
   if(vis<.03)return;
   if(G.asleep)return; /* she is in the bunk; the blanket is drawn with the room */
   const fr=sp>10||G.space?DRIFT[Math.floor(pn/700)%4]:0,im=suit(fr);
-  if(im){const X=Math.round(G.x/u)*u,Yr=Math.round(Y/u)*u;x.save();x.globalAlpha=vis;x.imageSmoothingEnabled=false;G.roll+=((G.space?1:0)-G.roll)*.02;if(G.roll>.02){const cy=Yr-64,a=(Math.sin(pn/3700)*.24+Math.sin(pn/9100)*.12)*G.roll;x.translate(X,cy);x.rotate(a);x.translate(-X,-cy);} /* outside she turns a little as she drifts */
+  if(im){const X=Math.round(G.x/u)*u,Yr=Math.round(Y/u)*u;x.save();x.globalAlpha=vis;x.imageSmoothingEnabled=false;G.roll+=((G.space&&!G.calm?1:0)-G.roll)*.02;if(G.roll>.02){const cy=Yr-64,a=(Math.sin(pn/3700)*.24+Math.sin(pn/9100)*.12)*G.roll;x.translate(X,cy);x.rotate(a);x.translate(-X,-cy);} /* outside she turns a little as she drifts */
     if(G.face<0){x.translate(X,0);x.scale(-1,1);x.translate(-X,0);}x.drawImage(im,X-AX,Yr-AY);x.restore();}
   else try{CUT.sprite('deadscout','idle',G.x,Y,G.face<0,t,x,vis,[[fr,1]]);}catch(e){}
   if(PR.water){const wa=(pn-PR.water)/1000;if(wa>6)PR.water=0;else for(let i=0;i<5;i++){const w=(wa*1.3+i*.37)%1.6;if(w>1||wa<.8)continue;x.globalAlpha=.9*(1-w);x.fillStyle='#f6efe4';const q=u*2;x.fillRect(Math.round((G.x+G.face*30+w*10)/q)*q,Math.round((G.y-70+w*w*44)/q)*q,q,q);}x.globalAlpha=1;}
@@ -214,7 +214,7 @@ CUT.overlay((x,t,SS)=>{const u=SS||2,pn=performance.now(),sp=Math.hypot(G.vx,G.v
 /* the sky keeps to itself: stars, the planet, the comet and the far beacon the ship already had. Added here: a shooting star now and then,
    quick and small, behind the hull */
 function streak(x,q,sx,sy,dx,len,u){const hx=sx+dx*len*u,hy=sy+len*.34*u;for(let k=0;k<9;k++){const a=(1-k/9)*(u<.8?1:(1-u)/.2);if(a<=.05)continue;x.globalAlpha=a;x.fillStyle=k<2?'#f6efe4':k<5?'#7ee3e5':'#1fb4ce';x.fillRect(Math.round((hx-dx*k*q*1.6)/q)*q,Math.round((hy-k*q*.55)/q)*q,q,q);}x.globalAlpha=1;}
-CUT.behind&&CUT.behind((x,t,SS)=>{if(!active())return;const q=(SS||2)*2,pn=performance.now(),per=47,n=Math.floor(t/per),ph=t-n*per,h=k=>CUT._hash(n,7200+k);
+CUT.behind&&CUT.behind((x,t,SS)=>{if(!active()||G.calm)return;const q=(SS||2)*2,pn=performance.now(),per=47,n=Math.floor(t/per),ph=t-n*per,h=k=>CUT._hash(n,7200+k);
   if(!(h(0)>.62||ph>1.1))streak(x,q,CUT.W*(.08+.84*h(1)),CUT.H*(h(2)<.5?.02+.1*h(3):.86+.1*h(3)),h(4)<.5?-1:1,220+260*h(5),ph/1.1);
   if(G.star&&pn>G.star){const u=(pn-G.star)/1400;if(u>1)G.star=0;else streak(x,q,CUT.W*.2,CUT.H*.03,1,520,u);} /* the one every visit gets, a little over a minute in */
   if(G.shower){const e=(pn-G.shower)/1000;if(e>9)G.shower=0;else for(let i=0;i<11;i++){const u=(e-i*.62-CUT._hash(i,7301)*.4)/1.2;if(u<0||u>1)continue;streak(x,q,CUT.W*(.05+.9*CUT._hash(i,7302)),CUT.H*(CUT._hash(i,7303)<.6?.01+.11*CUT._hash(i,7304):.87+.08*CUT._hash(i,7304)),-1,260+200*CUT._hash(i,7305),u);}}});

diff --git a/sw.js b/sw.js
@@ -3,11 +3,11 @@
    One cache per release (C): installing a new release precaches its own file list and the activate step deletes the old
    caches, so what's offline is always one coherent set (r22 kept one cache for ever and could mix two versions).
    KEEP THE LIST BELOW IN STEP WITH index.html: the ?v= strings must match exactly, the cache is keyed by full URL. */
-const C='driftnaut-v81';
-const FILES=['./','index.html','game.css?v=55','manifest.webmanifest','favicon.png','icon-192.png','icon-512.png','apple-touch-icon.png','boot-helmet.png?v=2','boot-helmet-skull.png?v=2','boot-ship.png?v=1',
+const C='driftnaut-v82';
+const FILES=['./','index.html','game.css?v=57','manifest.webmanifest','favicon.png','icon-192.png','icon-512.png','apple-touch-icon.png','boot-helmet.png?v=2','boot-helmet-skull.png?v=2','boot-ship.png?v=1',
   'fonts/silkscreen-400.woff2','fonts/plexmono-400.woff2','fonts/plexmono-500.woff2',
-  'mix.js?v=17','space.js?v=5','music.js?v=11','deep.js?v=16','assets-core.js?v=27','pix.js?v=11','cut.js?v=66','episode.js?v=3','story/halcyon.js?v=13','watch.js?v=20','amb.js?v=6','audio/sfx.js?v=6','lc.js?v=14','rec.js?v=9',
-  'game/scanner.js?v=5','game/power.js?v=4','game/drift.js?v=3','game/k9.js?v=4','game/events.js?v=3','game/story.js?v=17','game/console.js?v=2','game.js?v=77','game/pad.js?v=14','game/toys.js?v=23','game/clock.js?v=8','game/k9nav.js?v=1','game/joy.js?v=7','game/town.js?v=9','game/naut.js?v=12','game/life.js?v=2','game/feel.js?v=1',
+  'mix.js?v=17','space.js?v=5','music.js?v=11','deep.js?v=16','assets-core.js?v=27','pix.js?v=11','cut.js?v=67','episode.js?v=3','story/halcyon.js?v=13','watch.js?v=20','amb.js?v=6','audio/sfx.js?v=6','lc.js?v=15','rec.js?v=9',
+  'game/scanner.js?v=5','game/power.js?v=4','game/drift.js?v=3','game/k9.js?v=4','game/events.js?v=3','game/story.js?v=17','game/console.js?v=2','game.js?v=78','game/pad.js?v=14','game/toys.js?v=23','game/clock.js?v=8','game/k9nav.js?v=1','game/joy.js?v=7','game/town.js?v=9','game/naut.js?v=13','game/life.js?v=3','game/feel.js?v=2',
   'assets-world.js?v=10','assets-cast.js?v=10','mp4-muxer.js'];
 self.addEventListener('install',e=>{e.waitUntil(caches.open(C).then(c=>Promise.allSettled(FILES.map(f=>c.add(f).catch(()=>{})))).then(()=>self.skipWaiting()));});
 self.addEventListener('activate',e=>{e.waitUntil(caches.keys().then(ks=>Promise.all(ks.filter(k=>k!==C).map(k=>caches.delete(k)))).then(()=>self.clients.claim()));});

diff --git a/game.css b/game.css
@@ -585,3 +585,18 @@ body.phone.watching.portrait:not(.studio) .wui-btns.main{flex-wrap:nowrap;gap:5p
 body.phone.watching.portrait:not(.studio) .wui-bar{padding-left:6px;padding-right:6px}
 .wui-btns button u{margin:0 .45em}
 .ab.open{padding-top:92px}
+
+/* ===== r82 · UPRIGHT =====
+   An upright phone or tablet, aboard: the picture is the whole screen. The bar lies over the bottom of it and fades when idle, as on a
+   desktop; a tap brings it back. Pinch in for the whole ship, out for the close view */
+body.tall{overflow:hidden;background:#161719}
+body.tall .g{padding:0!important;place-items:start!important;min-height:100dvh}
+body.tall .unit,body.tall #screen{margin:0!important;padding:0!important}
+body.tall #stage{display:block}
+body.tall .wui{opacity:0;transition:opacity .6s}body.tall .wui.on{opacity:1}
+body.tall .wui-bar{position:absolute!important;inset:auto 0 0 0!important;top:auto!important;left:0!important;width:100%!important;padding:26px 6px calc(12px + env(safe-area-inset-bottom))!important;background:linear-gradient(transparent,rgba(11,14,17,.88))!important;justify-content:center}
+body.tall.watching:not(.studio) .toast{top:auto!important;bottom:calc(96px + env(safe-area-inset-bottom))!important;width:min(88vw,420px);max-width:none;box-sizing:border-box}
+body.tall .np{top:calc(10px + env(safe-area-inset-top))!important;left:14px!important}
+
+/* r82: less motion when the device asks for it */
+@media (prefers-reduced-motion: reduce){.wui,.np,.toast,.boot,.veil{transition:none!important}}

diff --git a/game/feel.js b/game/feel.js
@@ -27,7 +27,7 @@ function lightDraw(x,pn){if(!LM)LM=lightmap();if(pn>dimAt){dimAt=pn+1200;try{con
   x.save();x.globalAlpha=dimK;x.imageSmoothingEnabled=false;x.drawImage(LM,0,0,LW*Q,LH*Q);x.restore();}
 /* ---- air: dust in the lamp light ---- */
 const MOTES=[];for(const L of (M.lamps||[])){if(L.warn||!RINFO[L.room]||L.room==='eva')continue;const fl=RINFO[L.room].floor,n=L.soft?3:5;for(let i=0;i<n;i++)MOTES.push({x:L.x+rnd(-80,80),y:rnd(L.y+26,fl-20),lx:L.x,y0:L.y+26,y1:fl-16,vx:rnd(-3,3),vy:rnd(-2.2,2.2),ph:rnd(0,6.28)});}
-function motes(x,u,pn,dt){const q=u*2;for(const m of MOTES){m.x+=m.vx*dt+Math.sin(pn/2300+m.ph)*.05;m.y+=m.vy*dt;if(m.x<m.lx-90||m.x>m.lx+90)m.vx=-m.vx;if(m.y<m.y0||m.y>m.y1)m.vy=-m.vy;
+function motes(x,u,pn,dt){const q=u*2;if(G.calm)dt=0;for(const m of MOTES){m.x+=m.vx*dt+(G.calm?0:Math.sin(pn/2300+m.ph)*.05);m.y+=m.vy*dt;if(m.x<m.lx-90||m.x>m.lx+90)m.vx=-m.vx;if(m.y<m.y0||m.y>m.y1)m.vy=-m.vy;
     const a=.16+.3*(.5+.5*Math.sin(pn/1700+m.ph*3));x.globalAlpha=a;x.fillStyle='#f6efe4';x.fillRect(Math.round(m.x/q)*q,Math.round(m.y/q)*q,q,q);}x.globalAlpha=1;}
 /* ---- signs of habit (a = one block; the whole ship is drawn small, so these are drawn in blocks of 3 world units) ---- */
 const INK='#14181c';

diff --git a/game/life.js b/game/life.js
@@ -88,7 +88,7 @@ const POOL={
   dip:()=>{dip();setTimeout(()=>scoutSay('worried'),500);setTimeout(()=>scoutSay('happy'),5200);return true;},
   bloom:()=>{setTimeout(()=>scoutSay('curious'),1500);TANK.bloom=performance.now()+26000;note({i:[0,2,4,5,7],v:.34,voice:'rhodes',gap:.2});return true;}};
 let nextAt=0,lastKind='',wasOn=false;
-function surprise(pn){if(pn<nextAt)return;const inside=!G.space&&!G.asleep,kinds=Object.keys(POOL).filter(k=>k!==lastKind&&(inside||k==='shower'));const k=pick(kinds);let ok=false;try{ok=POOL[k]();}catch(e){}if(ok)lastKind=k;nextAt=pn+rnd(140000,240000);}
+function surprise(pn){if(pn<nextAt)return;const inside=!G.space&&!G.asleep,kinds=Object.keys(POOL).filter(k=>k!==lastKind&&(inside||k==='shower')&&!(G.calm&&k==='shower'));const k=pick(kinds);let ok=false;try{ok=POOL[k]();}catch(e){}if(ok)lastKind=k;nextAt=pn+rnd(140000,240000);}
 function tick(dt,pn){const g=GP();if(!A.active()||!G.on){wasOn=false;return;}if(!wasOn){wasOn=true;nextAt=pn+108000;scoutAt=pn+52000;}
   for(const b of BOTS){botTick(b,dt,pn);if(b.stuck&&!G.space&&Math.hypot(b.x-G.x,b.y-G.y)<80&&pn-b.stuck>1500)free(b,pn);}
   for(const f of FL)try{flTick(f,dt,g);}catch(e){}

diff --git a/director.html b/director.html
@@ -74,12 +74,12 @@
 <script src="assets-world.js?v=10"></script>
 <script src="assets-cast.js?v=10"></script>
 <script src="pix.js?v=11"></script>
-<script src="cut.js?v=66"></script>
+<script src="cut.js?v=67"></script>
 <script src="episode.js?v=3"></script>
 <script src="episodes/default.js?v=7"></script>
 <script src="story/halcyon.js?v=13"></script>
 <script src="watch.js?v=20"></script>
-<script src="lc.js?v=14"></script>
+<script src="lc.js?v=15"></script>
 <script src="loud.js?v=2"></script>
 <script src="rec.js?v=9"></script>
 <script src="director.js?v=7"></script>
